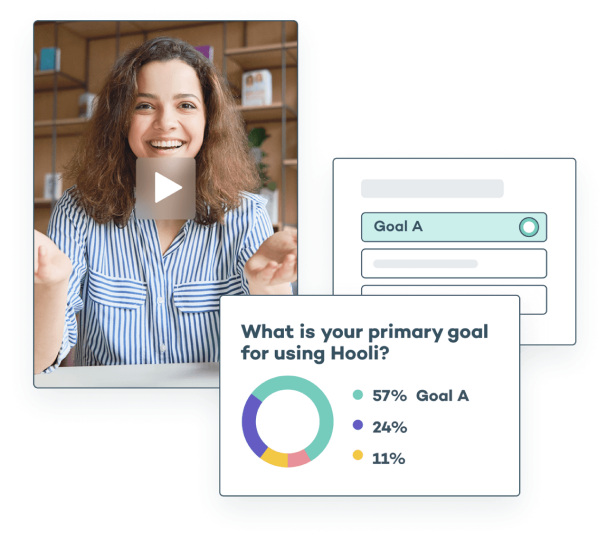
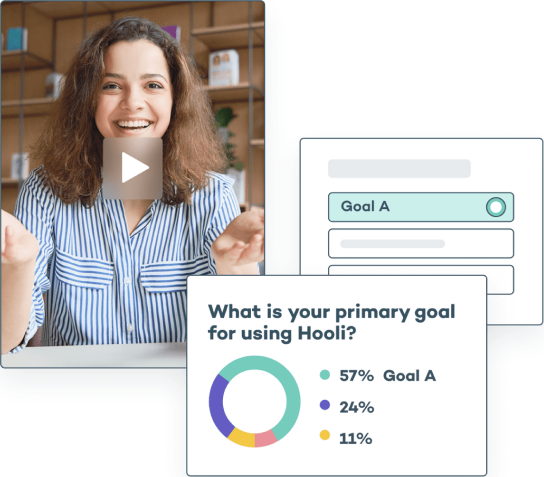
project-next

diff --git a/projectHTML/index.html b/projectHTML/index.html
@@ -52,24 +52,69 @@
         </div>
     </nav>
     <div class="centr">
-    <div class="headerLeft">
-        <div class="headerTXTh1">
-            <h1>In-context user research that's fast and reliable.</h1>
+        <div class="headerLeft">
+            <div class="headerTXTh1">
+                <h1>In-context user research that's fast and reliable.</h1>
+            </div>
+            <div class="headerTXTh4">
+                <p>Ensure user research happens early and often with Sprig's targeted microsurveys, video questions, and
+                    more.</p>
+            </div>
+            <div class="btmHeaderLeft">
+                <button class="Free btnButton">Start for Free</button>
+                <div class="Sales"><a href="#">Talk to Sales</a></div>
+            </div>
         </div>
-        <div class="headerTXTh4">
-            <p>Ensure user research happens early and often with Sprig's targeted microsurveys, video questions, and
-                more.</p>
-        </div>
-<div class="btmHeaderLeft">
-    <button class="Free btnButton">Start for Free</button>
-    <div class="Sales"><a href="#">Talk to Sales</a></div>
-</div>
-    </div>
-    <div class="">
         <div class="HeaderRight">
-            <div class="video"><img src="img/video.png" alt="video"></div>
+            <div class="video">
+                <img src="img/video.png" alt="video">
+            </div>
+            <div class="yellow">
+                <img src="img/yellow.png" alt="yellow">
+            </div>
         </div>
-    </div>
     </div>
 </header>
+<div class="trust">
+    <p>Trusted by the world's most innovative companies</p>
+</div>
+<div class="logos">
+    <img src="img/square.png" alt="square">
+    <img src="img/codecademy.png" alt="codecademy">
+    <img src="img/dropbox.png" alt="dropbox">
+    <img src="img/loom.png" alt="loom">
+    <img src="img/adobe.png" alt="adobe">
+    <img src="img/shift.png" alt="shirt">
+    <img src="img/ease.png" alt="ease">
+    <img src="img/ironclad.png" alt="ironclad">
+    <img src="img/opendoor.png" alt="opendoor">
+    <img src="img/surfline.png" alt="surfline">
+    <img src="img/app_annie.png" alt="app_annie">
+    <img src="img/beyond.png" alt="beyond">
+    <img src="img/proguides.png" alt="proguides">
+    <img src="img/invoice2go.png" alt="invoice2go">
+    <img src="img/chipper.png" alt="chipper">
+</div>
+<div class="velo">
+    <img src="img/velo.png" alt="velo">
+    <div class="velo_txt">
+        <div class="veloP1"><p class="p1">
+            Modern product teams move fast, but learning from customers takes a ton of time, effort, and energy.
+        </p></div>
+        <div class="veloP2"><p class="p2">So teams often rush user research or skip it altogether, causing products and
+            features to
+            miss the mark.</p>
+        </div>
+    </div>
+</div>
+<div class="Sprig"><p>
+    Sprig makes it possible to obtain qualitative insights at the speed and scale of analytics
+</p></div>
+<div class="last">
+    <img src="img/last.png" alt="last">
+</div>
+<div class="lastBtn">
+    <button class="Free btnButton">Start for Free</button>
+</div>
+
 </html>

diff --git a/projectHTML/mail.css b/projectHTML/mail.css
@@ -1,7 +1,12 @@
 .header {
     max-width: 1440px;
+    margin: 0;
+    box-sizing: border-box;
 }
-
+a{
+    text-decoration: none;
+    color: black;
+}
 .header_menu {
     width: 1440px;
     height: 83px;
@@ -47,7 +52,6 @@ img {
     font-weight: normal;
     font-size: 60px;
     line-height: 64px;
-    letter-spacing: 0.6px;
     color: #0B2330;
     width: 436px;
     height: 256px;
@@ -59,10 +63,6 @@ img {
     font-size: 22px;
     line-height: 32px;
     color: #375361;
-}
-
-.header_menu_btn_item {
-    text-decoration: none;
 }
 .btmHeaderLeft{
     display: flex;
@@ -90,19 +90,104 @@ img {
     align-items: center;
 }
 .HeaderRight{
-    height: 886px;
-    width: 600px;
-    background: #f8c501;
     display: flex;
-    align-items: center;
-    /**position: absolute;**/
 }
 .centr{
     display: flex;
     justify-content: space-between;
 }
-img{
-    position: relative;
-    left: -150px;
-    top: 100px;
+.video>img{
+    position: absolute;
+    left: 720px;
+    top: 360px;
+}
+.trust{
+    display: flex;
+    justify-content: center;
+    padding-top: 189px;
+    font-style: normal;
+    font-weight: normal;
+    font-size: 42px;
+    line-height: 48px;
+    text-align: center;
+}
+.trust>p{
+    width: 547px;
+}
+.logos{
+    display: flex;
+    justify-content: space-evenly;
+    flex-wrap: wrap;
+    margin-top: 59px;
+    margin-left: 174px;
+    margin-right: 173px;
+}
+.velo{
+    display: flex;
+    margin-top: 192px;
+    margin-left: 32px;
+    width: 1376px;
+    height: 494px;
+    background: #51cdbb;
+    border-radius: 10px;
+}
+.veloP1{
+    display: flex;
+    justify-content: center;
+    align-items: center;
+    margin-top: 114px;
+    margin-right: 121px;
+}
+.veloP2{
+    display: flex;
+    justify-content: center;
+    align-items: center;
+    margin-right: 145px;
+    margin-bottom: 161px;
+}
+.p1{
+    font-style: normal;
+    font-weight: normal;
+    font-size: 34px;
+    line-height: 40px;
+    letter-spacing: 0.34px;
+    color: #0B2330;
+}
+.p2{
+    font-style: normal;
+    font-weight: normal;
+    font-size: 22px;
+    line-height: 32px;
+    color: #0B2330;
+}
+.velo_txt{
+    display: flex;
+    flex-direction: column;
+}
+.Sprig{
+    display: flex;
+    justify-content: center;
+    align-items: center;
+    margin-top: 191px;
+}
+.Sprig>p{
+    width: 711px;
+    height: 80px;
+    font-style: normal;
+    font-weight: normal;
+    font-size: 34px;
+    line-height: 40px;
+    letter-spacing: 0.34px;
+    color: #0B2330;
+}
+.last{
+    display: flex;
+    justify-content: center;
+    align-items: center;
+    margin-top: 57px;
+}
+.lastBtn{
+    display: flex;
+    justify-content: center;
+    margin-top: 127px;
 }
